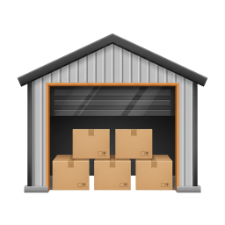
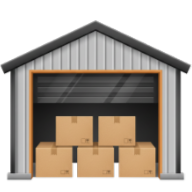
UI fixes

diff --git a/client/src/pages/user-map.tsx b/client/src/pages/user-map.tsx
@@ -50,7 +50,7 @@ export default function UserMap() {
   const [selectedDriver, setSelectedDriver] = useState<MockDriver | null>(null);
   const [nearestDriver, setNearestDriver] = useState<MockDriver | null>(null);
   const [isMinimized, setIsMinimized] = useState(false);
-  const [currentView, setCurrentView] = useState<'car' | 'location' | 'trucks' | 'confirm'>(() => {
+  const [currentView, setCurrentView] = useState<'car' | 'location' | 'confirmAddress' | 'trucks' | 'confirm'>(() => {
     const saved = localStorage.getItem('currentView');
     return (saved as any) || 'car';
   });
@@ -688,9 +688,14 @@ export default function UserMap() {
   const handleLocationSelect = (location: string) => {
     setDropoffLocation(location);
     setShowSuggestions(false);
+    setCurrentView('confirmAddress');
+    setDragHeight(40);
+    setShouldDrawRoute(true);
+  };
+
+  const handleConfirmAddress = () => {
     setCurrentView('trucks');
     setDragHeight(80);
-    setShouldDrawRoute(true);
   };
 
   const handleDriverSelect = (driver: MockDriver) => {
@@ -1556,11 +1561,30 @@ export default function UserMap() {
                         className="p-4 border-2 border-gray-200 rounded-lg cursor-pointer hover:bg-gray-50 flex flex-col items-center justify-center aspect-square"
                         onClick={() => handleLocationSelect(warehouseAddress)}
                       >
-                        <img src={warehouseIcon} alt="Warehouse" className="w-8 h-8 mb-2" />
+                        <img src={warehouseIcon} alt="Warehouse" className="w-12 h-12 mb-2" />
                         <p className="font-semibold text-sm">Warehouse</p>
                       </div>
                     </div>
                   </div>
+                </div>
+              </div>
+              
+              {/* Confirm Address View */}
+              <div className={`absolute inset-0 transition-transform duration-500 ease-in-out ${
+                currentView === 'confirmAddress' ? 'translate-y-0' : 'translate-y-full'
+              }`}>
+                <div className="px-6 pb-6 h-full flex flex-col justify-center">
+                  <div className="mb-6">
+                    <p className="text-sm text-gray-600 mb-2">Destination</p>
+                    <p className="text-lg font-semibold text-black">{dropoffLocation}</p>
+                  </div>
+                  
+                  <Button
+                    onClick={handleConfirmAddress}
+                    className="w-full bg-orange-500 hover:bg-orange-600 text-white py-4 rounded-xl font-semibold text-lg"
+                  >
+                    Confirm Address
+                  </Button>
                 </div>
               </div>
               
